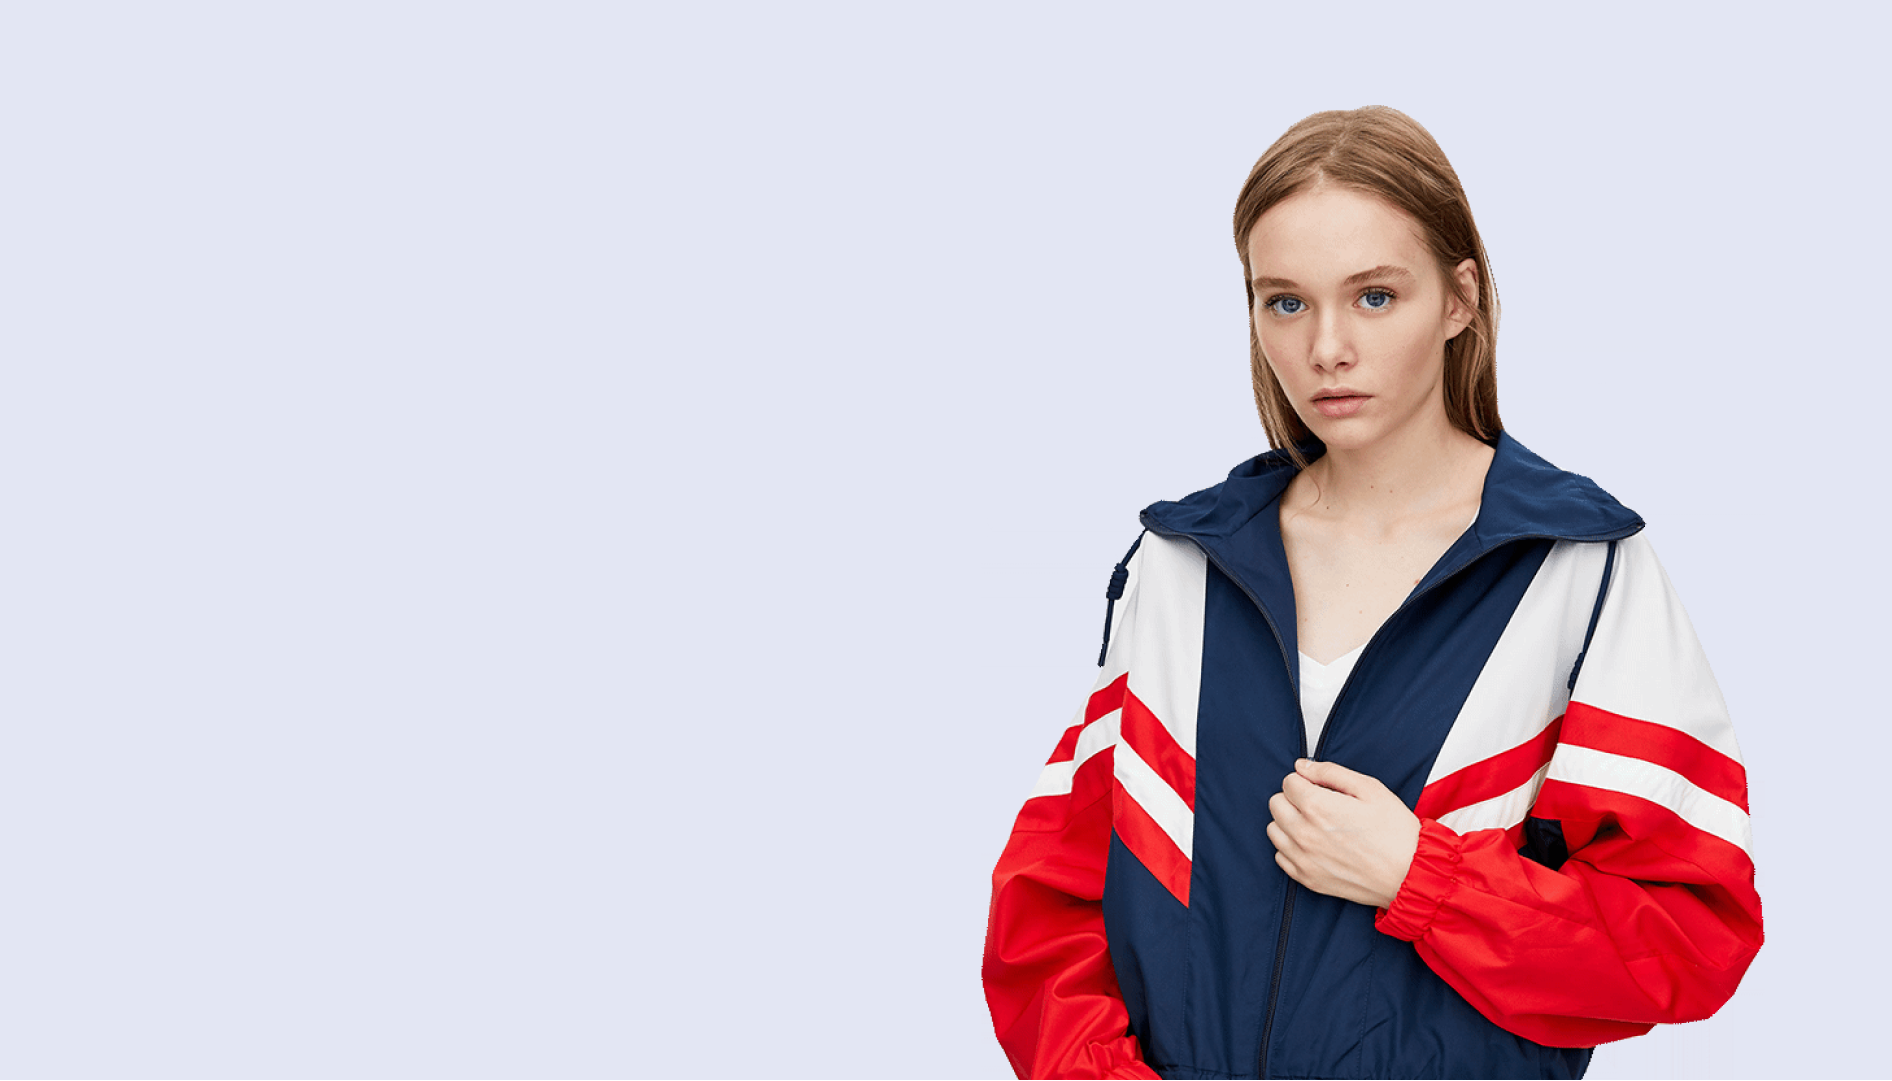
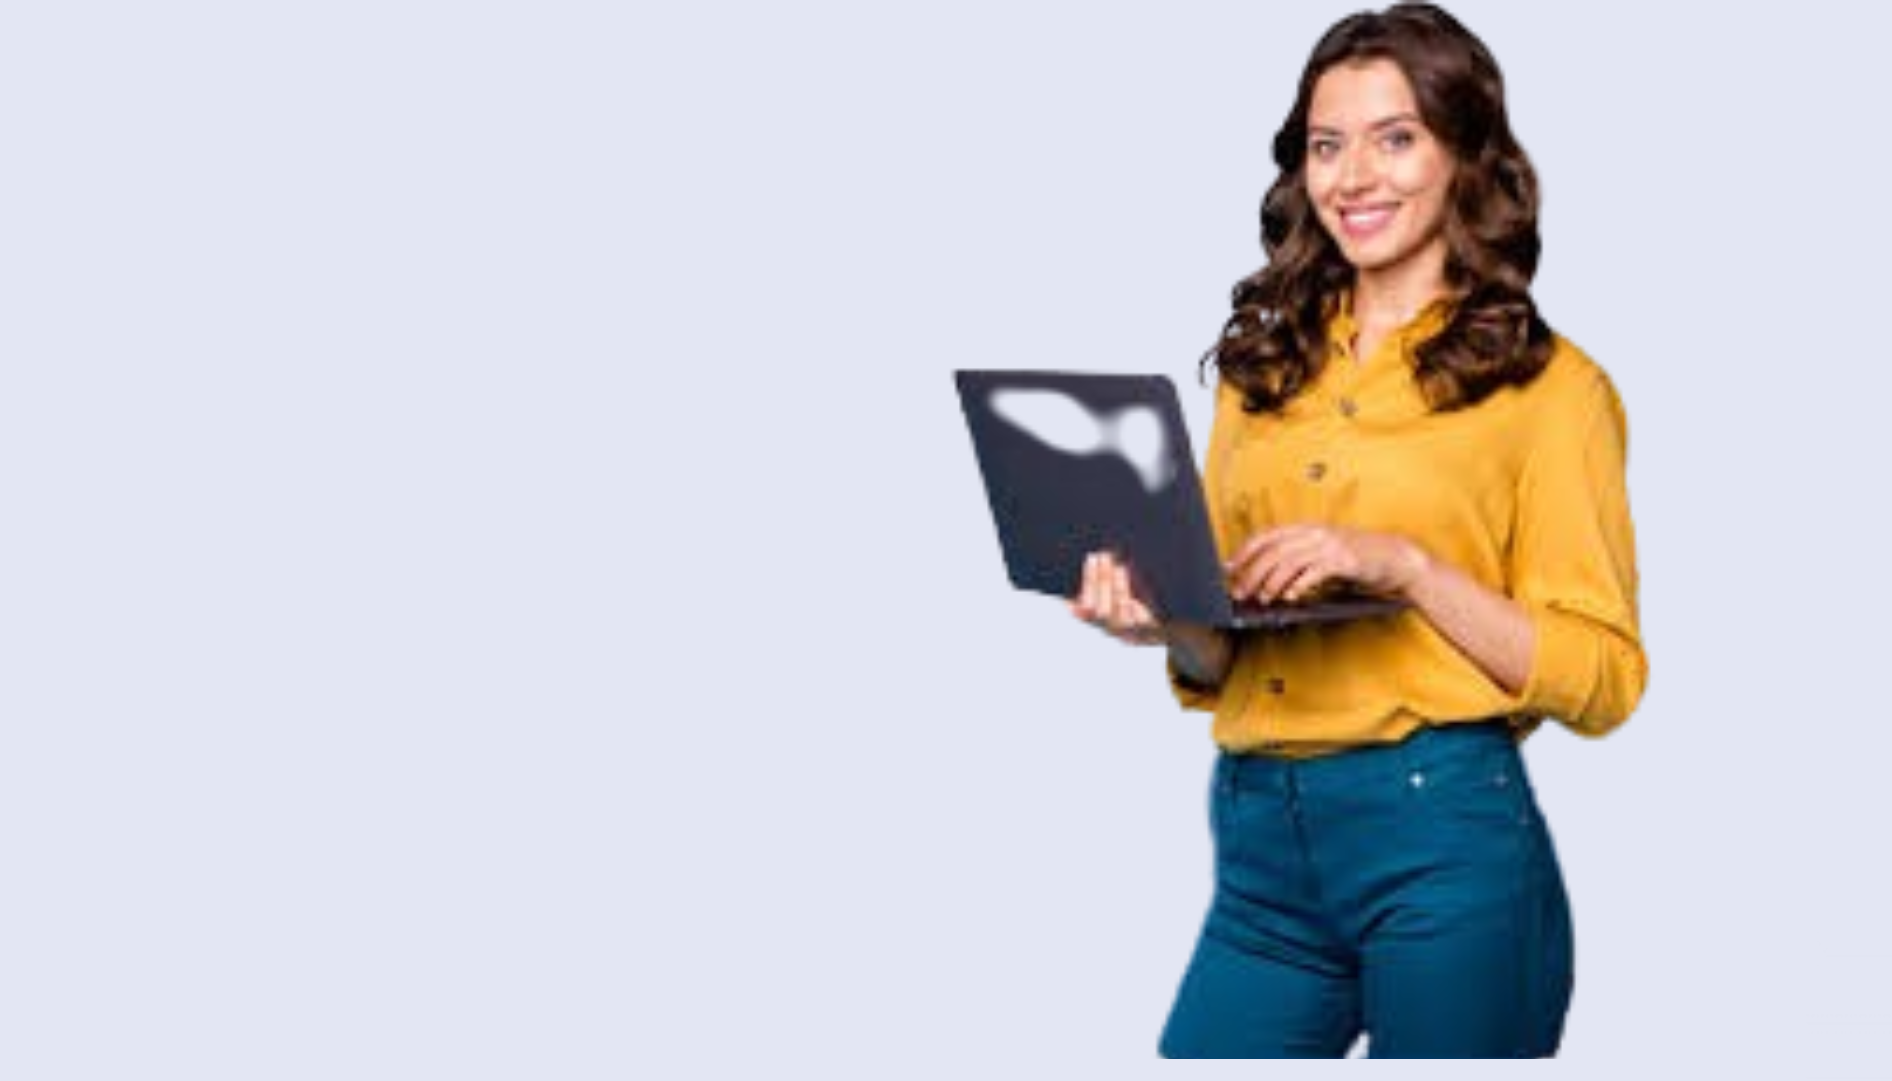
commit

Changed region(s): [[0.4989, 0.0, 0.9355, 1.0]]

diff --git a/style.css b/style.css
@@ -1,3 +1,6 @@
+*{
+    font-family: 'Times New Roman', Times, serif;
+}
 #header{
     display: flex;
     align-items: center;
@@ -24,7 +27,7 @@
     font-weight: 600;
     color: black; 
     cursor: pointer;
-    transition: 0.3s ease;
+    transition: 0.3s ease; 
 }
 #navbar li a:hover{
     color: purple;
@@ -270,4 +273,61 @@
 }
 #banner3 .banner-box13{
     background-image: url("img/banner/b18.jpg");
+}
+#newsletter{
+    display: flex;
+    align-items: center;
+    justify-content: space-between;
+    flex-wrap: wrap;
+    background-image: url("img/banner/b14.png");
+    background-repeat: no-repeat;
+    background-position: 20% 30%;
+    background-color: rgb(10, 198, 208);
+    padding: 20px 0;
+    margin-top: 20px;
+}
+#newsletter .newstext{
+    color: white;
+    margin-left: 100px;
+}
+#newsletter p{
+    font-size: 16px;
+    font-weight: 600;
+    color: gray;
+}
+#newsletter p span{
+    color: orange;
+}
+#newsletter .form{
+    /* margin-right: 150px; */
+    /* padding: 10px 4px; */
+    display: flex;
+    /* width: 40%; */
+}
+#newsletter input{
+    /* height: 40px; */
+    padding: 0 3px;
+    font-size: 14px;
+    width: 100%;
+    border: 1px solid transparent; 
+    border-radius: 4px;
+    outline: none;
+}
+#newsletter button{
+    /* padding: 13px 7px; */
+    font-size: 13px;
+    border: 1px solid;
+    border-radius: 4px;
+    /* outline: none; */
+    cursor: pointer;
+    background-color: blueviolet;
+    color: white;
+    font-weight: 700;
+    display: inline;
+}
+#newsletter button:hover{
+    transition: 0.2s ease;
+    background-color: green;
+    color: aliceblue;
+    font-weight: 900;
 }

diff --git a/index.html b/index.html
@@ -380,14 +380,27 @@
         </div>
 
         <div class="banner-box12">
-            <h1>Seasonal Sale</h1>
-            <h3>Winter Collection -50% OFF</h3>
+            <h1>New Footwear Collection</h1>
+            <h3>Spring/Summer</h3>
         </div>
 
         <div class="banner-box13">
-            <h1>Seasonal Sale</h1>
-            <h3>Winter Collection -50% OFF</h3>
+            <h1>T-Shirts</h1>
+            <h3>New Trendy Prints</h3>
         </div>
     </section>
+
+    <section id="newsletter" >
+        <div class="newstext">
+            <h1>Sign Up For Newsletter</h1>
+            <p>Get E-mail updates about our latest shop and <span>special offers.</span></p>
+        </div>
+        <div class="form">
+            <input type="text" placeholder="Your Email address">
+            <button>Sign Up</button>
+        </div>
+    </section>
+
+    
 </body>
 </html>  
